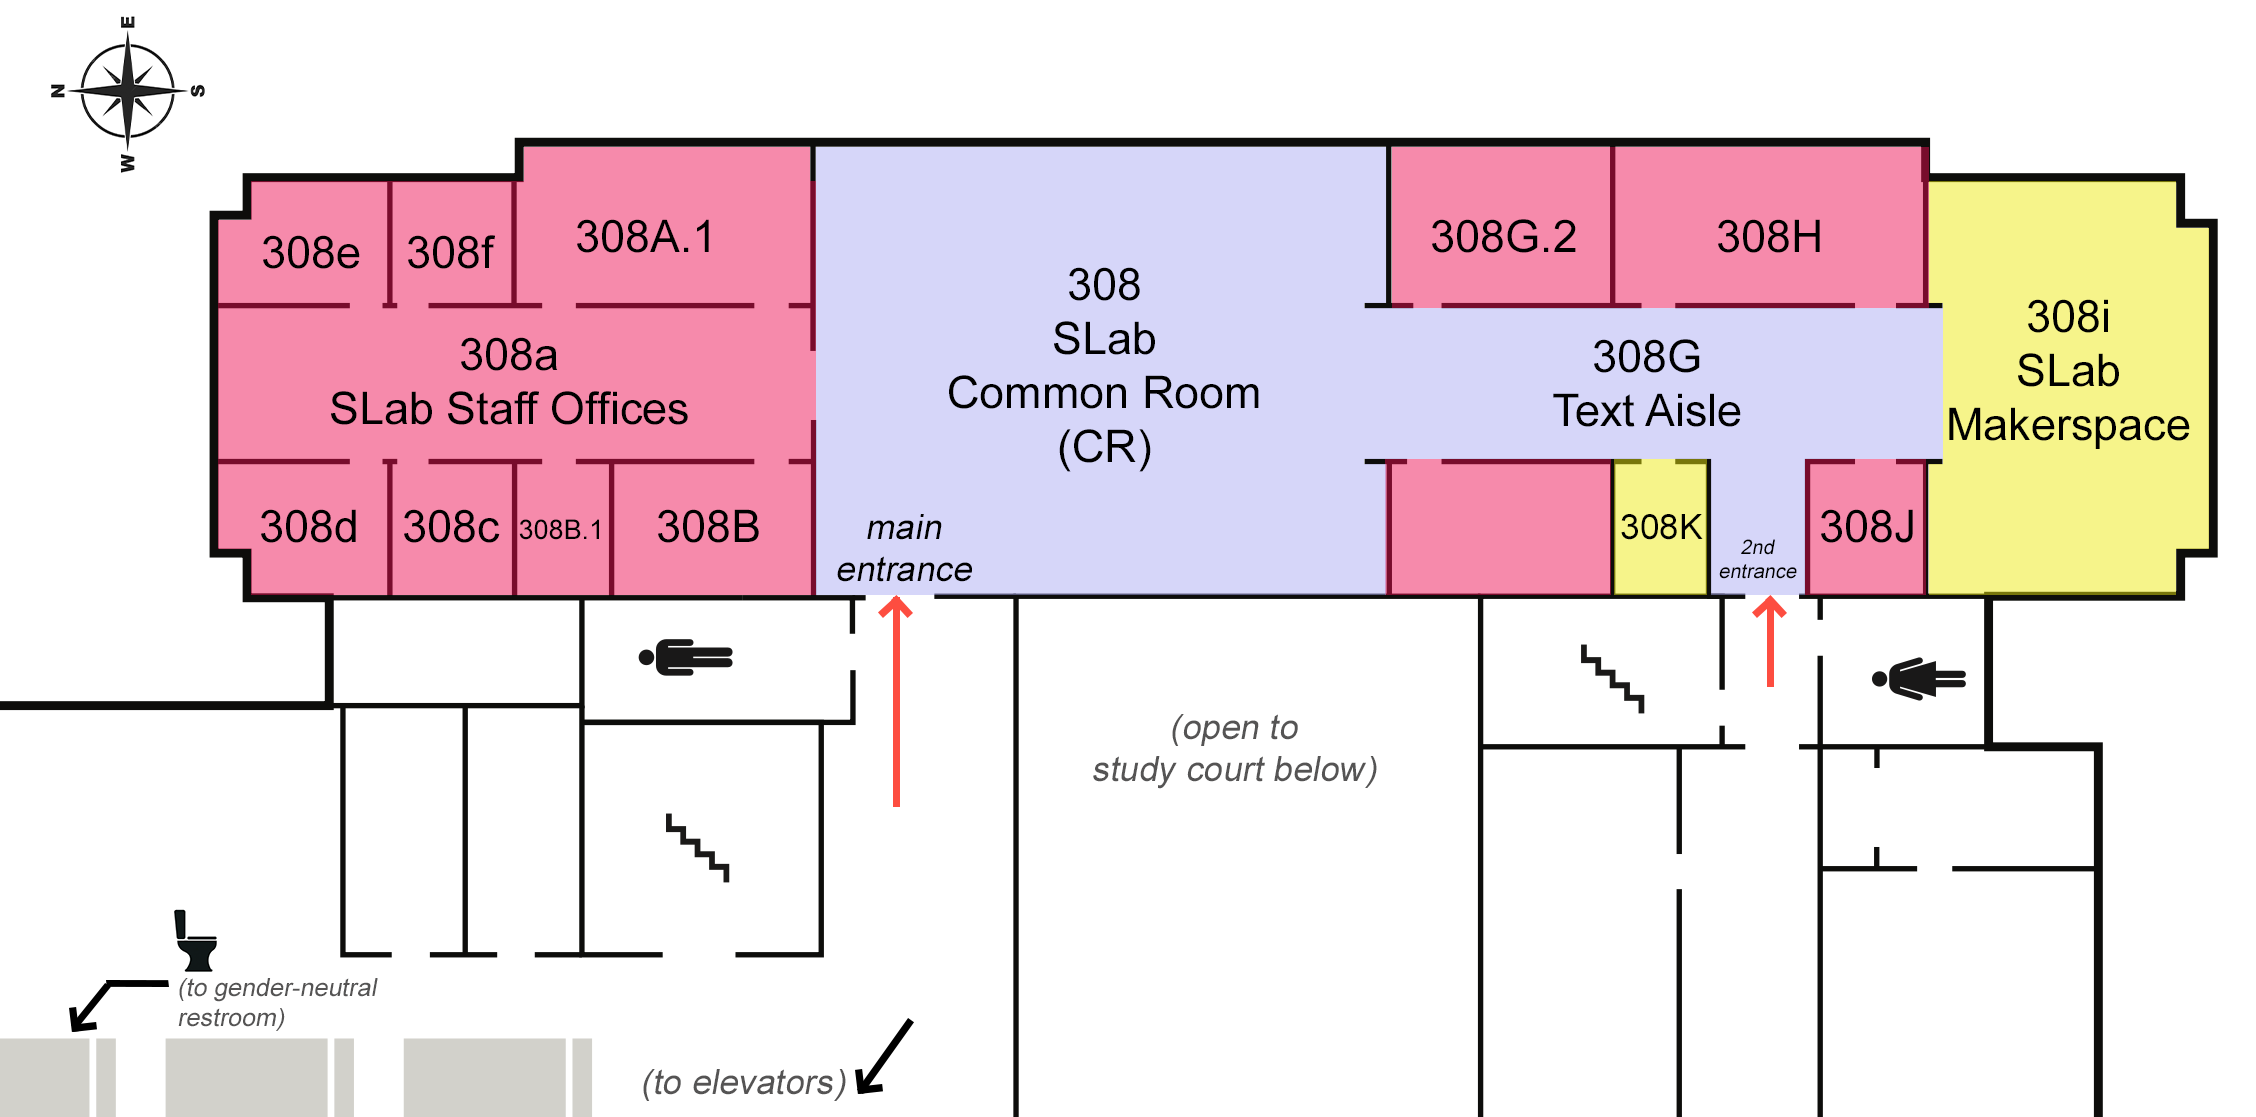
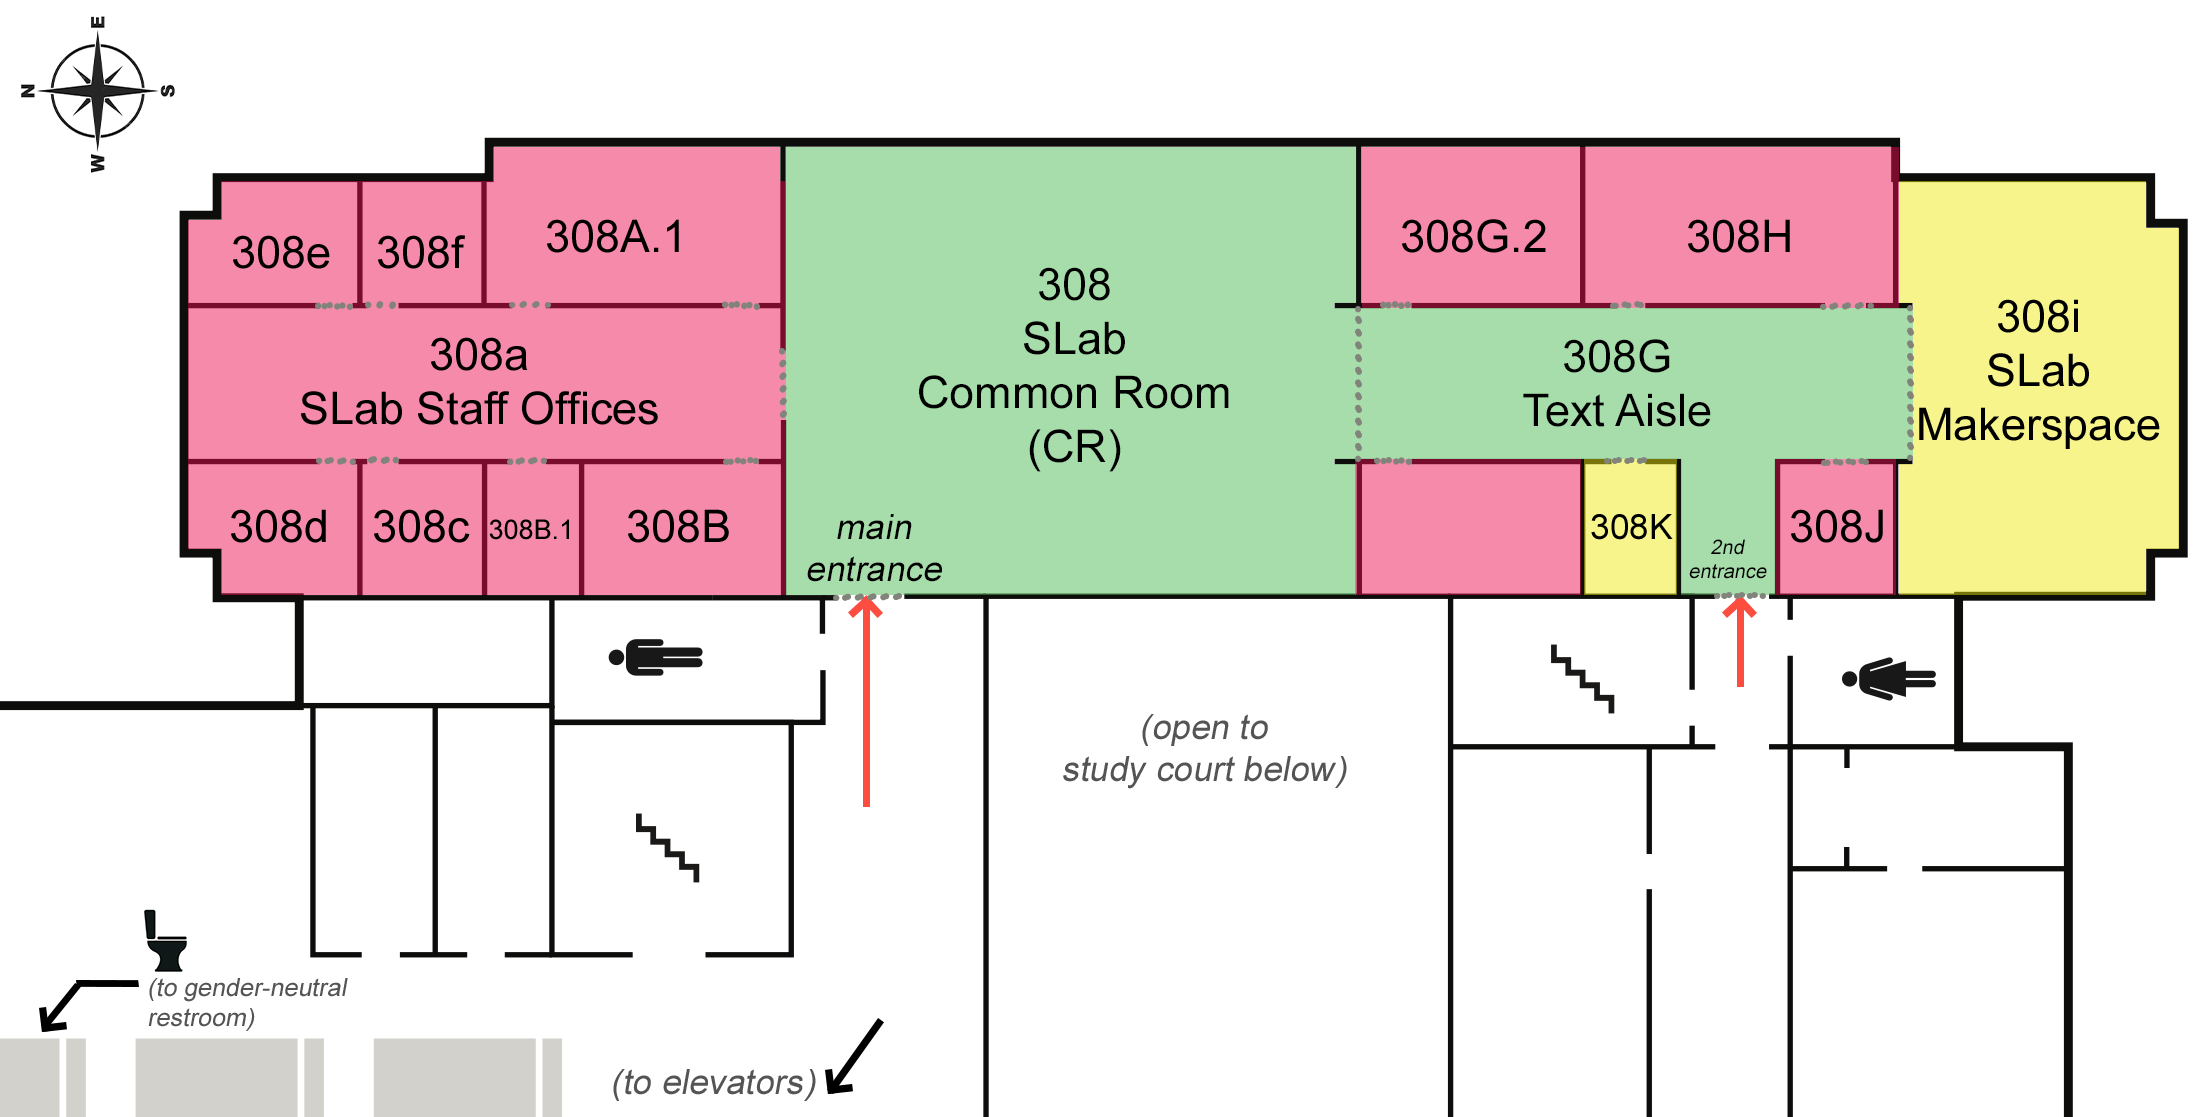
Fixed layout map...
* changed purple to green for more contrast; changed text legend to say green not violet

diff --git a/pages/visit/use-the-lab.html b/pages/visit/use-the-lab.html
@@ -40,7 +40,7 @@ var week2090 = new $.LibCalWeeklyGrid( $("#s-lc-whw2090"), { iid: 863, lid: 2090
 <img src=/assets/img/space-maps/CroppedForWebsite_SLabMap.png alt="A map showing Scholars' Lab's place on the 3rd floor of Shannon Library" class="slab-map">
 
 <ul>
-<li>Violet: public space</li>
+<li>Green: public space</li>
 <li>Yellow: mediated space (see hours, below)</li>
 <li>Red: private space (or by approved appointment/office hours/event)</li>
 </ul>
